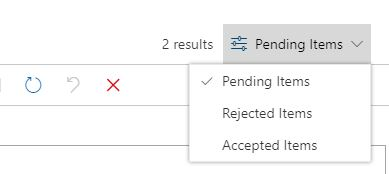
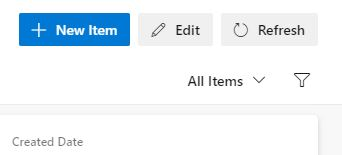
update readme

diff --git a/src/Apps/BugBashPro/README.md b/src/Apps/BugBashPro/README.md
@@ -23,7 +23,7 @@ The home page of the extension shows all the past/ongoing/upcoming bug bash inst
 
 ![Group](images/homepage.jpg)
 
-To create a new bug bash instance, click "New", which opens the bug bash editor
+To create a new bug bash instance, click "New Bug Bash", which opens the bug bash editor in a side panel
 
 ![Group](images/editor.jpg)
 
@@ -40,25 +40,20 @@ You can enter bug bash information in the editor to create it. Here are the prop
 
 _P.S._ : Work item templates are defined per team per workitem type. The template dropdown shows all templates in the selected team (for all work item types). Users should pick a template corresponding to the selected "Work item type" in the bug bash.
 
-![Group](images/editorview.jpg)
-
-Once saved, click on "Results" to go to the results view of this bug bash instance.
+Once saved, click on the Title cell of the newly added bug bash instance.
 
 ![Group](images/results.jpg)
 
-The results page shows 2 things -
-
-1. A results grid which shows the items created in this bug bash.
-2. An item editor where users can create new items or edit existing ones.
-
 You can choose the view of results grid from the filter at top-right (next to the result count number) -
+
 ![Group](images/filter.jpg)
 
 1. **Pending Items** - It shows all the items which are not yet accepted. By accepted, I mean that no work items have been created for these items. When you create any new item (if the Auto accept is turned off in the bug bash instance), it just creates a bug bash item without creating any work item for it. Only when you accept it, it will create an actual work item based on the work item template selected during the bug bash creation. Each item can be edited in this list by clicking the row.
 2. **Accepted Items** - It shows all the items which have been accepted. Since accepted items are in fact real work items, to edit them, you need to open the work item form. This list shows a work item grid and to open a work item you can double click the row or click the title. Accepting an item is an irreversible step.
 3. **Rejected Items** - It shows all the items which are rejected. To reject an item, select the item from "Pending Items" grid and from the item editor, select the "Reject" checkbox, fill in a "Reject Reason" and save it. Once saved, this item will start showing up in the Rejected Items grid. Note that a rejected item can still be "Accepted" in future or moved back to "Pending items" list.
+4. **All Items** - It shows all the items.
 
-To create or edit any pending item, you can use the item editor at the right side of the results page.
+To create or edit any pending item, click "New" button in the header.
 When a new item is created, it will store the title, description and team into the item's data. When the item is accepted, the title and team from the item would be used to fill the title and team field (area path for Azure Devops) of accepted work item. And the description would be filled in the description field selected during bug bash creation.
 
 Users can also start a discussion for a item in the item editor.
@@ -100,8 +95,11 @@ Users can configure 2 things here -
 
 -   Use new azure devops extension sdk & apis
 -   Dark theme support
--   Major UI redesign:
-    1.
+-   Removed "Details" pivot from bug bash view page
+-   Added "Board" pivot in bug bash view page
+-   Bug bash edit/create happens from a panel instead of a full page editor
+-   Bug bash item edit/create happens from a panel instead of a triage view
+-   Performance improvements
 
 **(03/03/18) Version 3.3:**
 
